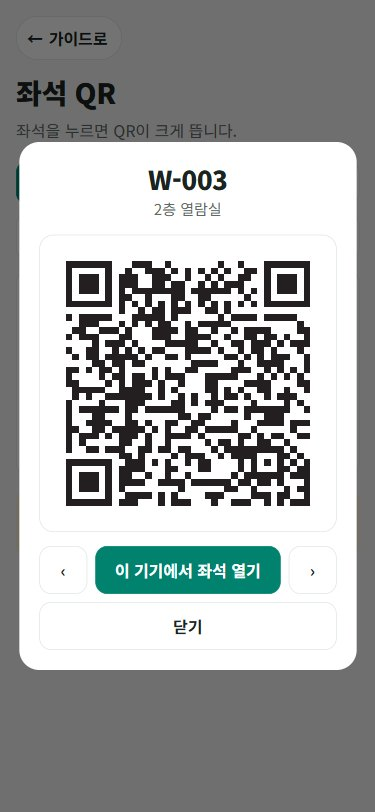
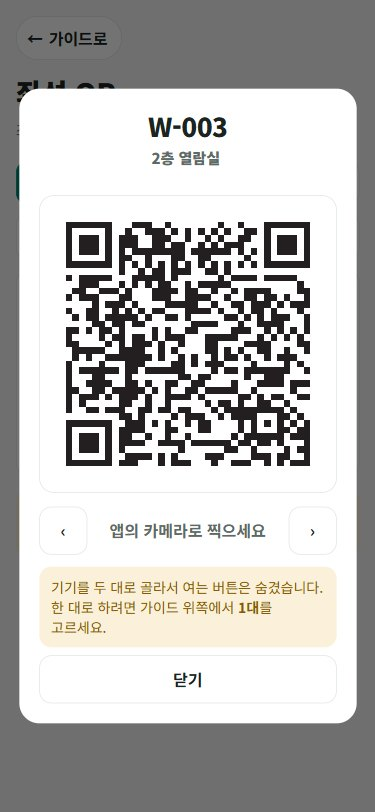
가이드: 이 기기에서 좌석 열기 버튼 설명, 두 대일 때는 숨기고 한 대일 때는 확인 창을 거치게

diff --git a/docs/guide.src.html b/docs/guide.src.html
@@ -197,10 +197,17 @@
   dialog.qr .code { margin: 14px auto 0; background: #fff; border-radius: 14px; padding: 6px; border: 1px solid var(--line); }
   dialog.qr .code svg { display: block; width: 100%; height: auto; }
   dialog.qr .row { display: grid; grid-template-columns: 48px 1fr 48px; gap: 8px; margin-top: 14px; }
-  dialog.qr .row + .row { grid-template-columns: 1fr; margin-top: 8px; }
+  dialog.qr .row + .row, dialog.qr .qr-hint ~ .row { grid-template-columns: 1fr; margin-top: 8px; }
   dialog.qr button, dialog.qr a.open { min-height: 48px; display: inline-flex; align-items: center; justify-content: center; border-radius: 12px; border: 1px solid var(--line); background: var(--surface); color: var(--ink); font: inherit; font-weight: 700; text-decoration: none; cursor: pointer; }
   dialog.qr a.open { background: var(--deep); border-color: var(--deep); color: #fff; }
+  dialog.qr.ask { width: min(320px, calc(100vw - 48px)); }
+  dialog.qr.ask h2 { font-size: 21px; }
+  dialog.qr .ask-txt { margin-top: 8px; color: var(--muted); font-size: 15px; }
+  dialog.qr .row2 { display: grid; grid-template-columns: 1fr 1fr; gap: 8px; margin-top: 16px; }
+  dialog.qr .scan-only { display: inline-flex; align-items: center; justify-content: center; min-height: 48px; font-weight: 700; color: var(--muted); }
+  dialog.qr [hidden] { display: none !important; }
   dialog.qr button:disabled { opacity: 0.35; cursor: default; }
+  dialog.qr .qr-hint { margin-top: 12px; padding: 10px 12px; border-radius: 12px; background: var(--warn-tint); color: var(--warn); font-size: 14px; text-align: left; line-height: 1.45; }
 
   /* 다음 단계로 */
   .next { margin-top: 18px; text-align: right; }
@@ -740,12 +747,27 @@
             <span class="where g">가이드에서 합니다</span>
             <h3>가이드에 QR이 크게 뜹니다</h3>
             <div class="viz">
-              <figure class="shot"><div class="shotbox"><img src="{{IMG:gqr2}}" alt="W-003 좌석의 QR이 크게 뜬 창. 아래에 이전 좌석, 이 기기에서 좌석 열기, 다음 좌석 버튼과 닫기 버튼"><i class="hl dev-two" style="left:10.40%;top:28.94%;width:79.20%;height:36.58%"><b>1</b></i><i class="hl dev-one" style="left:25.33%;top:67.24%;width:49.33%;height:5.91%"><b>1</b></i></div><figcaption>좌석 QR</figcaption></figure>
+              <figure class="shot dev-two"><div class="shotbox"><img src="{{IMG:gqr2}}" alt="W-003 좌석의 QR이 크게 뜬 창. QR 아래에 이전 좌석과 다음 좌석 버튼, 가운데에 앱의 카메라로 찍으세요 라는 글, 닫기 버튼"><i class="hl" style="left:10.40%;top:24.01%;width:79.20%;height:36.58%"><b>1</b></i><i class="hl out-l" style="left:10.40%;top:69.83%;width:79.20%;height:9.98%"><b>2</b></i></div><figcaption>좌석 QR · 기기 두 대</figcaption></figure>
+              <figure class="shot dev-one"><div class="shotbox"><img src="{{IMG:gqr2one}}" alt="W-003 좌석의 QR이 크게 뜬 창. QR 아래 가운데에 이 기기에서 좌석 열기 버튼, 그 아래 기기가 한 대일 때 쓰는 버튼이라는 설명과 닫기 버튼"><i class="hl" style="left:25.33%;top:59.85%;width:49.33%;height:5.91%"><b>1</b></i><i class="hl out-l" style="left:10.40%;top:67.24%;width:79.20%;height:14.90%"><b>2</b></i></div><figcaption>좌석 QR · 기기 한 대</figcaption></figure>
               <div class="viz-side">
-              <ol class="legend">
-                <li class="dev-two"><span>이 QR을 휴대폰 카메라로 찍습니다</span></li>
-                <li class="dev-one"><span><b>이 기기에서 좌석 열기</b>를 누릅니다. 앱이 열리고 QR을 찍은 것과 똑같이 처리됩니다</span></li>
+              <ol class="legend dev-two">
+                <li><span>이 QR을 앱의 카메라로 찍습니다</span></li>
+                <li><span>두 대로 골랐기 때문에 "이 기기에서 좌석 열기" 버튼은 숨겨져 있습니다. 잘못 눌러 바로 처리되는 일을 막기 위해서입니다</span></li>
               </ol>
+              <ol class="legend dev-one">
+                <li><span><b>이 기기에서 좌석 열기</b>를 누릅니다. 확인 창이 뜨고, <b>확인</b>을 눌러야 열립니다</span></li>
+                <li><span>창 안에도 이 버튼의 설명이 있습니다</span></li>
+              </ol>
+              <div class="tablebox dev-one" style="margin-top:16px">
+                <table>
+                  <tbody>
+                    <tr><th>왜 있나요</th><td>같은 휴대폰 화면에 뜬 QR은 그 휴대폰 카메라로 찍을 수 없습니다. 기기가 한 대면 찍을 방법이 없어서 이 버튼이 QR을 대신합니다.</td></tr>
+                    <tr><th>무슨 버튼인가요</th><td>QR 안에 들어 있는 좌석 주소를 그대로 여는 버튼입니다. QR을 찍었을 때 열리는 것과 같은 화면입니다.</td></tr>
+                    <tr><th>누르면</th><td>앱이 열리고 QR을 찍은 것으로 바로 처리됩니다. 내 좌석이면 체크인이나 복귀가 되고, 남의 좌석이면 그 좌석 화면이 나옵니다.</td></tr>
+                    <tr><th>주의</th><td>누르는 순간 처리되므로 좌석 번호를 확인하고 누릅니다. 그래서 확인 창을 한 번 거칩니다. 아이폰은 사파리로 열리므로 사파리에도 로그인해 둡니다.</td></tr>
+                  </tbody>
+                </table>
+              </div>
               </div>
             </div>
           </div>
@@ -1803,7 +1825,14 @@
       dlg.querySelector("h2").textContent = s[0];
       dlg.querySelector(".where").textContent = data.rooms[room].name;
       dlg.querySelector(".code").innerHTML = svg(s[2], s[3]);
-      dlg.querySelector("a.open").href = data.origin + "/s/" + s[1];
+      var link = dlg.querySelector("a.open");
+      link.href = data.origin + "/s/" + s[1];
+      disarm();
+      // 기기를 두 대로 골랐으면 여는 버튼을 숨긴다 (찍으면 되므로, 실수로 누르지 않게)
+      var one = document.getElementById("view-guide").getAttribute("data-dev") === "one";
+      link.hidden = !one;
+      dlg.querySelector(".scan-only").hidden = one;
+      Array.prototype.forEach.call(dlg.querySelectorAll(".qr-hint"), function (h) { h.hidden = h.getAttribute("data-for") !== (one ? "one" : "two"); });
       dlg.querySelector("[data-prev]").disabled = i === 0;
       dlg.querySelector("[data-next]").disabled = i === list.length - 1;
       if (!dlg.open) dlg.showModal();
@@ -1851,6 +1880,18 @@
     q.addEventListener("input", draw);
     dlg.querySelector("[data-prev]").addEventListener("click", function () { if (at > 0) open(at - 1); });
     dlg.querySelector("[data-next]").addEventListener("click", function () { if (at < list.length - 1) open(at + 1); });
+    // 여는 버튼은 확인 창을 한 번 거친다 (누르는 순간 체크인 같은 처리가 되므로)
+    var ask = document.getElementById("qr-ask");
+    function disarm() { if (ask.open) ask.close(); }
+    dlg.querySelector("a.open").addEventListener("click", function (e) {
+      e.preventDefault();
+      ask.querySelector("h2").textContent = list[at][0] + " 좌석을 열까요?";
+      ask.querySelector("[data-yes]").href = this.href;
+      ask.showModal();
+    });
+    ask.querySelector("[data-no]").addEventListener("click", function () { ask.close(); });
+    ask.querySelector("[data-yes]").addEventListener("click", function () { setTimeout(function () { ask.close(); }, 200); });
+    ask.addEventListener("click", function (e) { if (e.target === ask) ask.close(); });
     dlg.querySelector("[data-close]").addEventListener("click", function () { dlg.close(); });
     dlg.addEventListener("click", function (e) { if (e.target === dlg) dlg.close(); });
     draw();
